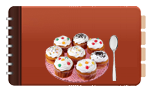
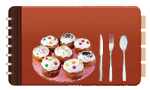
better menu images and better address

Changed region(s): [[0.2133, 0.3556, 0.8533, 0.9333]]

diff --git a/userprofiles/models.py b/userprofiles/models.py
@@ -37,7 +37,19 @@ class DeliveryAddress(models.Model):
         return self.get_full_address()
 
     def get_full_address(self):
-        return _('%(street)s %(number)s, %(city)s') % {'street': self.street, 'number': self.number, 'city': self.city}
+        address = _('%(street)s %(number)s, %(city)s') % {'street': self.street, 'number': self.number, 'city': self.city}
+        if self.block:
+            address += _(', block: %s') % self.block
+        if self.entrance:
+            address += _(', entrance: %s') % self.entrance
+        if self.floor:
+            address += _(', floor: %s') % self.floor
+        if self.ap_number:
+            address += _(', ap number: %s') % self.ap_number
+        if self.additional_info:
+            address += _(', additional info: %s') % self.additional_info
+        return address
+    
 
     def save(self, *args, **kwargs):
         if self.primary == True:

diff --git a/order/views.py b/order/views.py
@@ -23,6 +23,7 @@ from order.forms import CartNameForm, OrderForm, RatingForm
 from userprofiles.models import DeliveryAddress
 from bonus.models import BonusTransaction, BONUS_PERCENTAGE
 from order.tasks import send_email_task
+from shopping_cart import ShoppingCart
 
 def __is_restaurant_administrator(request, unit):
     if request.user.username == 'admin': return

diff --git a/menu/models.py b/menu/models.py
@@ -48,7 +48,7 @@ class ItemGroup(MultilingualModel):
   
   @staticmethod
   def autocomplete_search_fields():
-      return ("id__iexact", "name_def__icontains", "internal_name__icontains")
+      return ("id__iexact", "name_def__icontains", "internal_name__icontains", "unit__name__icontains")
 
   class Meta:
       translation = ItemGroupTranslation
